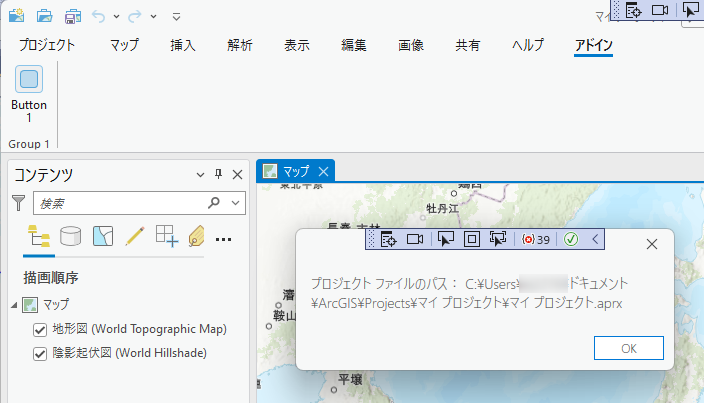
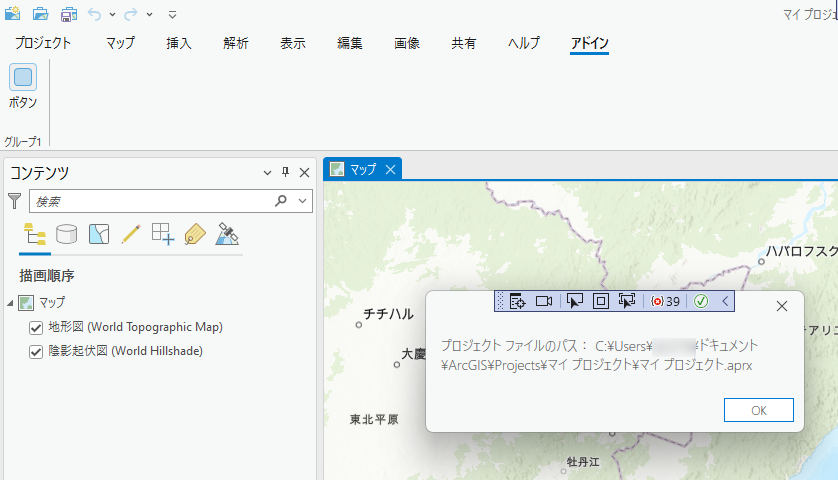
update README.md

diff --git a/20230914_arcgis-pro-sdk-hands-on/README.md b/20230914_arcgis-pro-sdk-hands-on/README.md
@@ -7,6 +7,9 @@
 
 このハンズオンは Esri が公開している「[ProGuide Build your first add in](https://github.com/EsriJapan/arcgis-pro-sdk/wiki/ProGuide-Build-Your-First-Add-in)」を再編集したものです。
 
+完成イメージ
+<img src="image/NewProProject2.png" width="100%">
+
 ## 必要な環境
 
 * [ArcGIS Pro](https://pro.arcgis.com/ja/pro-app/latest/get-started/arcgis-pro-system-requirements.htm)
@@ -146,7 +149,7 @@ Visual Studio のデバッガーでアドインを確認します。
     <img src="image/NewProProject.png" width="100%">
 
 
-3. アドイン タブに追加されている Button1 をクリックします。
+3. アドイン タブに新しく追加された ボタン をクリックします。
 
     <img src="image/AddInTab.png" width="100%">
 
